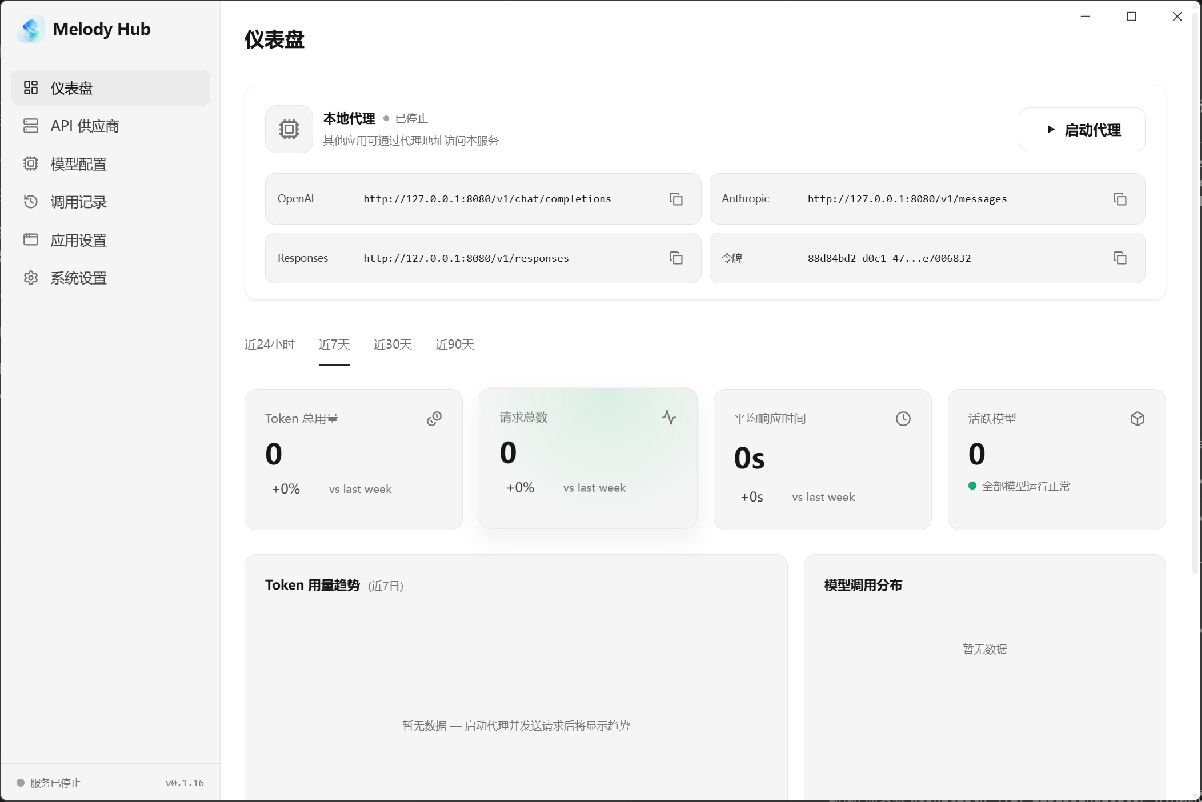
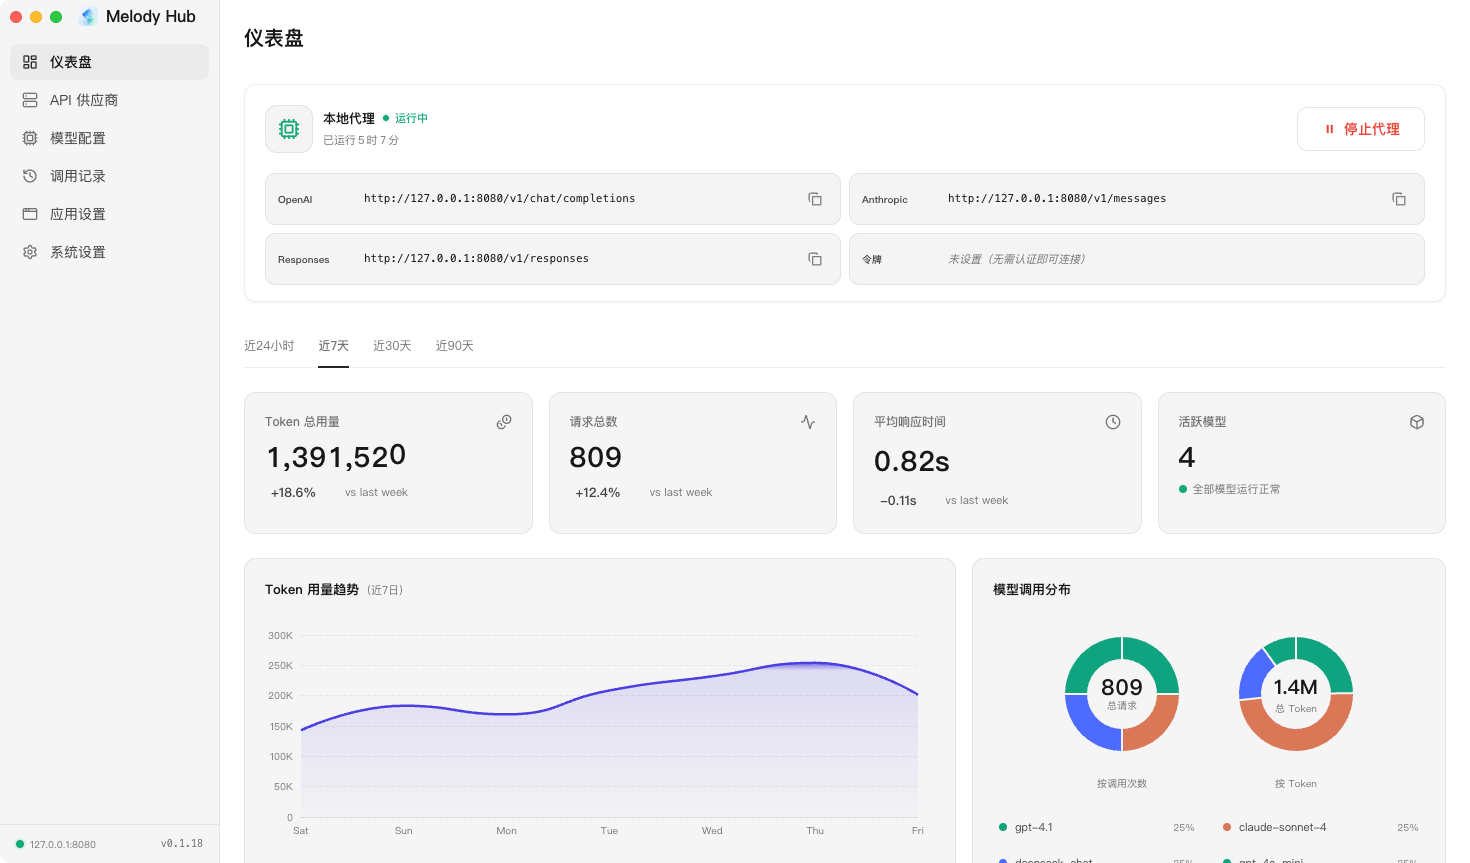
docs: 重拍三张界面预览截图，设置页替换为系统设置页
- dashboard/models/settings 三张按当前 UI 重拍（含调用记录入口、双饼图、模型配置新文案）
- settings.png 改为「系统设置」页（/settings），不再使用「应用设置」页
- 抓图脚本 mock 历史改为相对今天的最近 7 天：此前写死 7 月日期导致趋势图窗口对不上、渲染为空线；版本号改为跟随 package.json
- README 与截图目录说明同步

diff --git a/docs/screenshots/README.md b/docs/screenshots/README.md
@@ -4,7 +4,8 @@
 
 ## 目录约定
 
-- `dashboard.png`、`models.png`、`settings.png`：README 当前使用的主截图。
+- `dashboard.png`、`models.png`、`settings.png`：README 当前使用的主截图。其中 `settings.png` 对应「系统设置」页（`/settings`），不是「应用设置」页（`/applications`）。
+- 三张图由 `scripts/capture-readme-screenshots.mjs` 生成（Playwright + mock IPC，数据全部为虚构示例，不含真实密钥与令牌）。
 - `archive/`：早期界面稿，仅用于版本对照，不在 README 中展示。
 - `debug/`：复现界面问题时留下的截图，不作为产品展示素材。
 

diff --git a/README.md b/README.md
@@ -43,9 +43,9 @@ Melody Hub 基于 Tauri、React 和 Rust 构建，用一个本地地址统一接
 
 <img src="./docs/screenshots/models.png" alt="Melody Hub 模型配置（脱敏预览）" width="860" />
 
-### 应用设置
+### 系统设置
 
-<img src="./docs/screenshots/settings.png" alt="Melody Hub 应用设置" width="860" />
+<img src="./docs/screenshots/settings.png" alt="Melody Hub 系统设置" width="860" />
 
 
 ## 安装指南
